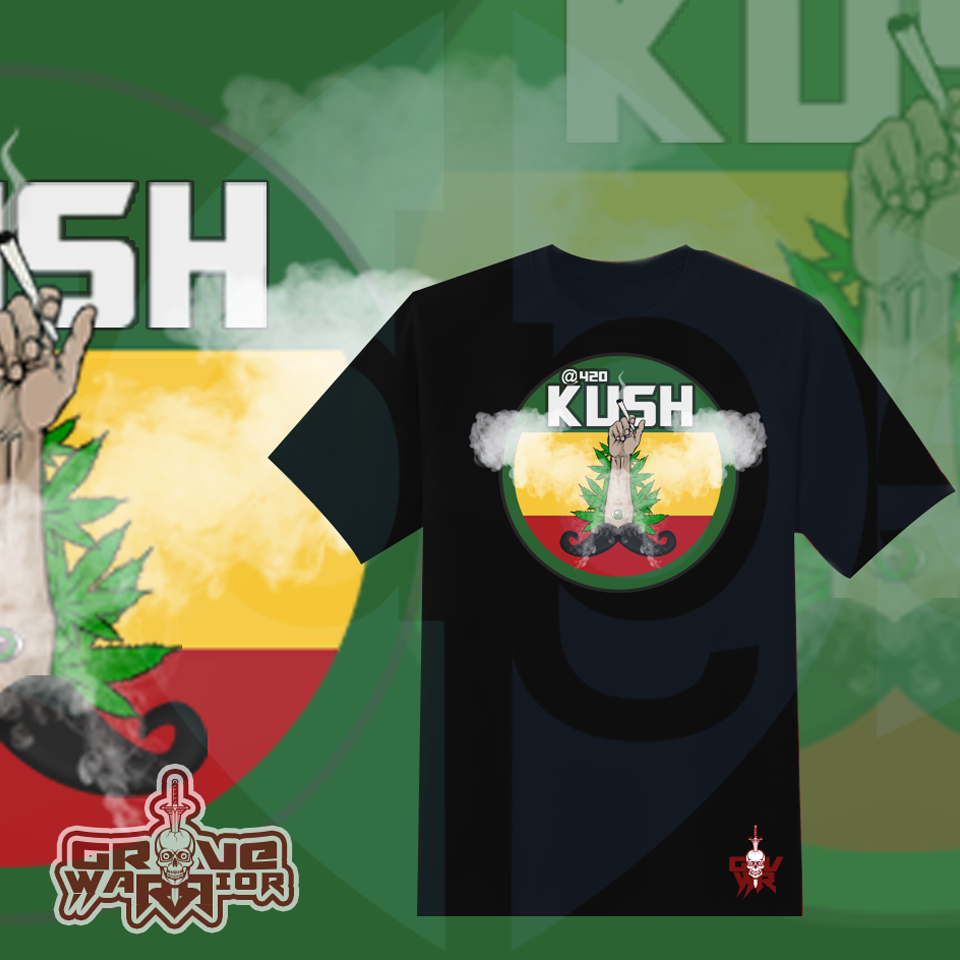
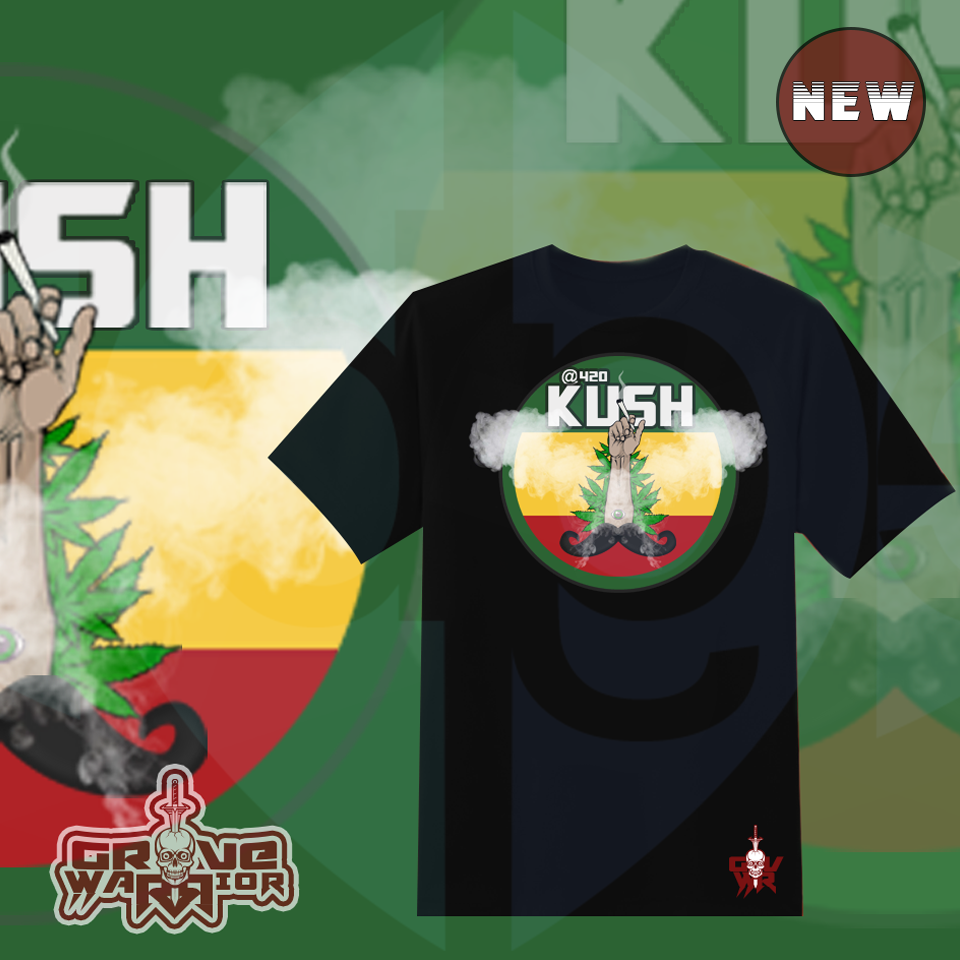
Editing some photos

Changed region(s): [[0.7812, 0.0312, 0.9688, 0.1875]]

diff --git a/index.html b/index.html
@@ -181,40 +181,40 @@
           </div>
           <div class = "row g-0">
               <div class = "collection-list mt-4 row gx-0 gy-3">
-                  <div class = "col-md-6 col-lg-6 col-xl-6 p-4 best">
+                  <div class = "col-6 p-4">
                       <div class = "collection-img position-relative">
                           <img src = "./image/shop/baphometshirt.png" class = "w-100">
-                          <span class = "position-absolute bg-primary text-white d-flex align-items-center justify-content-center">new</span>
+                          
                       </div>
                       <div class = "text-center">
                           <p class = "text-capitalize my-1">BLUE BAPHOMET</p>
                           <span class = "fw-bold">&#8369 500</span>
                       </div>
                   </div>
-                  <div class = "col-md-6 col-lg-6 col-xl-6 p-4 feat">
+                  <div class = "col-6 p-4">
                       <div class = "collection-img position-relative">
                           <img src = "./image/shop/khufra shirt.png" class = "w-100">
-                          <span class = "position-absolute bg-primary text-white d-flex align-items-center justify-content-center">new</span>
+                          
                       </div>
                       <div class = "text-center">
                           <p class = "text-capitalize my-1">KHUFRA MLBB</p>
                           <span class = "fw-bold">&#8369 500</span>
                       </div>
                   </div>
-                  <div class = "col-md-6 col-lg-6 col-xl-6 p-4 new">
+                  <div class = "col-6 p-4">
                       <div class = "collection-img position-relative">
                           <img src = "./image/shop/kush.png" class = "w-100">
-                          <span class = "position-absolute bg-primary text-white d-flex align-items-center justify-content-center">new</span>
+                          
                       </div>
                       <div class = "text-center">
                           <p class = "text-capitalize my-1">420 KUSH</p>
                           <span class = "fw-bold">&#8369 500</span>
                       </div>
                   </div>
-                  <div class = "col-md-6 col-lg-6 col-xl-6 p-4 best">
+                  <div class = "col-6 p-4">
                       <div class = "collection-img position-relative">
                           <img src = "./image/shop/saitama.png" class = "w-100">
-                          <span class = "position-absolute bg-primary text-white d-flex align-items-center justify-content-center">new</span>
+                          
                       </div>
                       <div class = "text-center">
                           <p class = "text-capitalize my-1">SAITAMA OPM</p>
